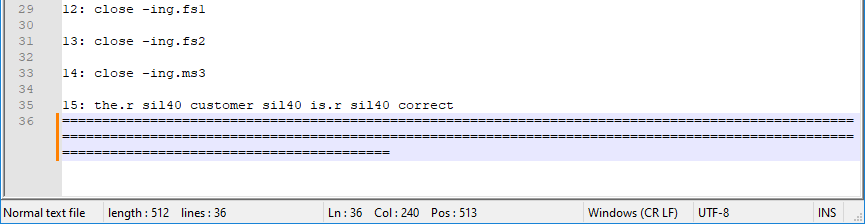
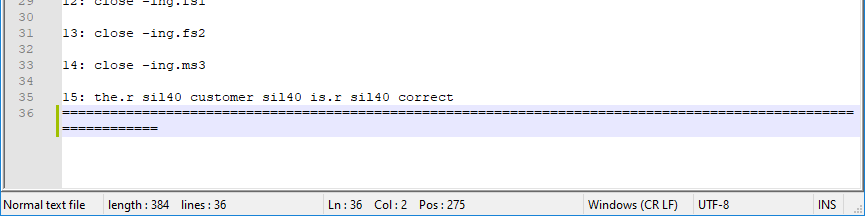
update

diff --git a/CustomROM.md b/CustomROM.md
@@ -1,6 +1,6 @@
 # Creating your own custom speech ROMs 
 
-## Step 1 – create the list of words/phrases
+## Step 1 – Create the list of words/phrases
 
 I started with a plain text file and using [Notepad++](https://notepad-plus-plus.org/) on Windows 10 I created my voice list which looked like this:
 ```
@@ -44,18 +44,28 @@ Note the blank line between each entry in the file.
 
 I wanted to know if there was a difference between the sound for a numerical digit (i.e. 1, 2, 3 etc) and the word equivalent (i.e. one, two, three etc). I also wanted to have a quick play with the word endings (entries 11 to 14) and have a go at my first phrase.
 
-## Step 2 – pad out the text file
+## Step 2 – Pad out the text file
 
 This seems to be a CP/M requirement. The text files I've come across so far have all been padded out at the end of the file with ASCII character 27 (0x1A) - appears as SUB in Notepad++ - so that the overall file length is a multiple of 128 bytes.
 
-When using Notepad++, there is a count of the number of bytes in the file displayed in the status bar at the bottom of the screen. For my test file it says 273.
+When using Notepad++, there is a count of the number of bytes in the file displayed in the status bar at the bottom of the screen. For my test file it says 273, so I need to pad the file to 384 bytes (3 x 128).
 
-In order to pad the file out to 512 bytes, I placed the cursor on the line below the 15: and then held down the = key to repeatedly insert the = symbol whilst watching the reported length of the file, stopping when it reached 512.
+In order to pad the file out to 384 bytes, I placed the cursor on the line below the 15: and then held down the = key to repeatedly insert the = symbol whilst watching the reported length of the file, stopping when it reached 384.
 
 The end of my file then looked like this:
+
 ![Notepad_pp](/images/Npp.png)
 
-Then highlight all the = that are at the end of the file and then select Search->Replace from the menu (or Ctrl+H). Set "Find what" to the = character and set "Replace with" to \x1A. Make sure that the "In Selection" box is ticked and set the search mode to Extended like this:
+Then
+* highlight all the = that are at the end of the file
+* select Search->Replace from the menu (or Ctrl+H)
+* Set "Find what" to the = character
+* Set "Replace with" to \x1A
+
+Set the rest of the settings in the dialog box like this:
+
 ![Notepad_pp Replace](/images/Npp_Replace.png)
+
 Then click "Replace All". The end of the file then looks like this:
+
 ![Notepad_pp Replaced](/images/Npp_Replaced.png)
